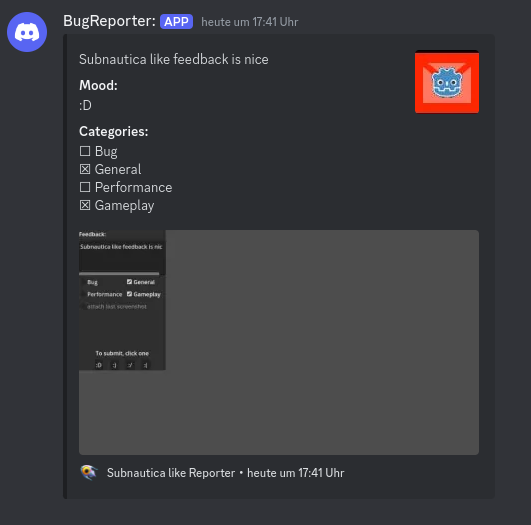
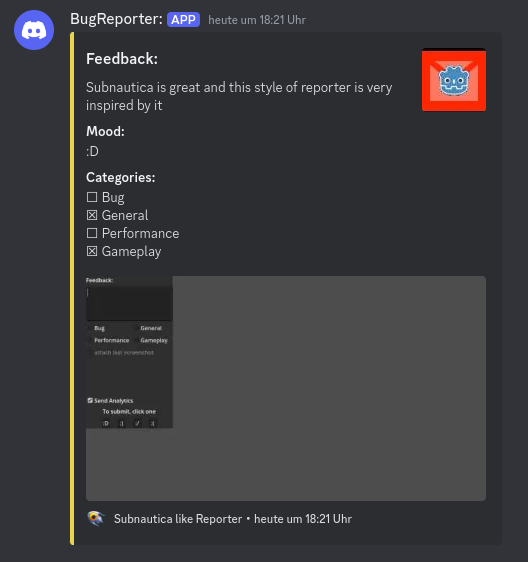
new reporter improved
added analytics
added tts and color
added the example to README

Changed region(s): [[0.0, 0.0, 0.9394, 0.9752]]

diff --git a/addons/BugReporter/README.MD b/addons/BugReporter/README.MD
@@ -66,6 +66,12 @@ The Reporter UI can be easily customized as long as the correct nodes are still 
 ## More specific questions
 More information, questions etc can be freely added by first adding the input nodes (like buttons, LineEdit, etc.) and then adding the information to the message by adding a field, embed or whatever.
 
+## Example subnautica like
+As example for an alternatve you can look at `subnautica_like.tscn`.  
+It more closely resembles the feedback form in subnautica that inspired this addon.  
+![](screenshots/subnautica_like_ui.png) ![](screenshots/subnautica_like_message.png)  
+
+
 # Proxy
 To prevent data leaks and potential data privacy lawsuits you need to setup a proxy.
 A Proxy will relay any messages to discord while ignoring unwanted actions (reading, deleting etc.).  
